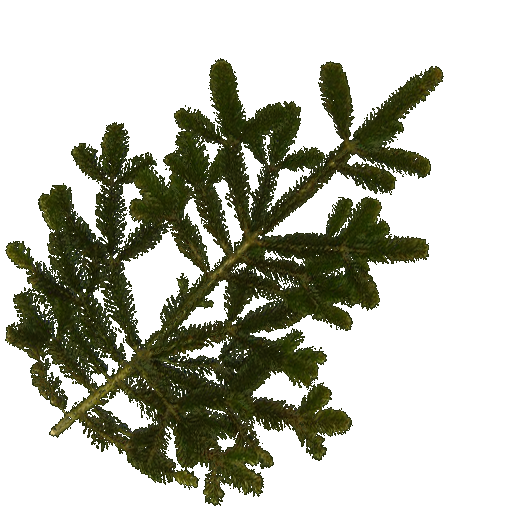
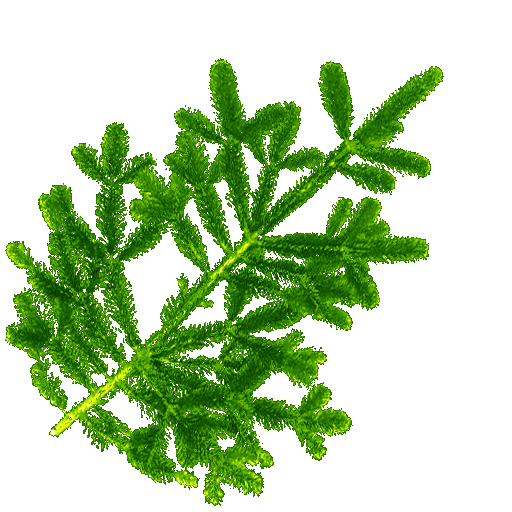
nexus, trees

diff --git a/app/scripts/threearena/game.js b/app/scripts/threearena/game.js
@@ -6,6 +6,7 @@ define('threearena/game',
 
     'threearena/utils',
     'threearena/hud',
+    'threearena/elements/nexus',
     'threearena/elements/tower',
     'threearena/elements/lifebar',
     'threearena/elements/interactiveobject', 
@@ -35,6 +36,7 @@ define('threearena/game',
  
     Utils,
     HUD,
+    Nexus,
     DefenseTower,
     LifeBar,
     InteractiveObject,
@@ -112,6 +114,11 @@ define('threearena/game',
         MicroEvent.mixin(ThreeArenaGlobalEvents);
 
         window._ta_events = new ThreeArenaGlobalEvents();
+
+        this.stats = new Stats();
+        this.stats.domElement.style.position = 'absolute';
+        this.stats.domElement.style.top = '0px';
+        this.settings.container.appendChild( this.stats.domElement );
 
         //////////
 
@@ -193,9 +200,9 @@ define('threearena/game',
         this.directionalLight = new THREE.SpotLight( 0xffffff );
         // this.directionalLight.ambient = 0xffffff;
         // this.directionalLight.diffuse = 0xffffff;
-        // this.directionalLight.specular = 0xffffff;
+        this.directionalLight.specular = 0xaaaa22;
         this.directionalLight.position.set( -200, 400, -200 );
-        this.directionalLight.intensity = 1;
+        this.directionalLight.intensity = .9;
         this.directionalLight.castShadow = true;
         this.directionalLight.shadowMapWidth = 1024;
         this.directionalLight.shadowMapHeight = 1024;
@@ -257,15 +264,14 @@ define('threearena/game',
         this.cameraControls.domElement = this.renderer.domElement;
     };
 
-    Game.prototype._initObjectives = function(done) {
-        var mesh;
+    Game.prototype._initNexus = function(done) {
 
-        this.objectives[0] = new THREE.Mesh( new THREE.CubeGeometry(10, 20, 10, 1, 1, 1) , new THREE.MeshBasicMaterial({ color:'#e33' }));
-        this.objectives[0].position.set(-179.6, 13.8, 180.7);
+        this.objectives[0] = new Nexus({ color: '#e33' });
+        this.objectives[0].position.set(-71.2, 19, 69);
         this.scene.add(this.objectives[0]);
 
-        this.objectives[1] = new THREE.Mesh( new THREE.CubeGeometry(10, 20, 10, 1, 1, 1) , new THREE.MeshBasicMaterial({ color:'#33e' }));
-        this.objectives[1].position.set(169.5, 17.8, -130.4);
+        this.objectives[1] = new Nexus({ color: '#3e3' });
+        this.objectives[1].position.set(89.2, 21, -62.5);
         this.scene.add(this.objectives[1]);
 
         done();
@@ -372,7 +378,8 @@ define('threearena/game',
                 object.material.materials[1].transparent = true;
 
                 object.material.materials[0].ambient.set(.5, 1, .5);
-                object.material.materials[0].specular.set(.1, .1, .1);
+                object.material.materials[0].diffuse.set(.5, 1, .5);
+                object.material.materials[0].specular.set(.1, 1, .1);
 
                 self._treesRefs.push(object);
                 callback();
@@ -453,30 +460,47 @@ define('threearena/game',
 
         var self = this;
 
+        this._treesGroup = this._treesGroup || new THREE.Object3D();
+        this._treesGroup.castShadow = true;    
+
         // clone a tree
         var refTreeIndex = type || Math.round( Math.random() * (this._treesRefs.length - 1) );
         var refTree = self._treesRefs[ refTreeIndex ];
        
-        var tree = new THREE.Mesh( refTree.geometry, refTree.material /* self._tree_shader */ );
-        tree.castShadow = true;    
-        tree.position = position;
-        tree.scale = new THREE.Vector3(4, 4, 4);
-        tree.rotation.y = Math.random() * 90 * ( Math.PI / 180 );
+        // this._tmp_tree = this._tmp_tree || new THREE.Mesh();
+        // this._tmp_tree.geometry = refTree.geometry;
+        // this._tmp_tree.material = refTree.material;
+
+        this._tmp_tree = new THREE.Mesh( refTree.geometry, refTree.material );
+        //this._tmp_tree.material.materials.push(cartoon);
+        this._tmp_tree.castShadow = true;
+
+        // this._tmp_tree.material.materials[1].ambient.set(0, 0, 0);
+        this._tmp_tree.material.materials[1].specular.set(0xdd5500);
+        // this._tmp_tree.material.materials[1].bumpMap = THREE.ImageUtils.loadTexture( "/gamedata/pine-a.png" );
+        // this._tmp_tree.material.materials[1].bumpScale = 19;
+
+        this._tmp_tree.matrixAutoUpdate = false;
+        this._tmp_tree.position = position;
+        this._tmp_tree.position.y += 4;
+        this._tmp_tree.scale = new THREE.Vector3(4, 3, 4);
+        // this._tmp_tree.rotation.y = Math.random() * 90 * ( Math.PI / 180 );
 
         if (refTreeIndex == 0) {
-            tree.rotation.x = - 90 * ( Math.PI / 180 );
+            this._tmp_tree.rotation.x = - 90 * ( Math.PI / 180 );
         }
         if (refTreeIndex == 1) {
-            //tree.rotation.x = 10 * ( Math.PI / 180 );
-            //tree.rotation.y = 10 * ( Math.PI / 180 );
-            tree.rotation.z = 70 * ( Math.PI / 180 );
+            //this._tmp_tree.rotation.x = 10 * ( Math.PI / 180 );
+            //this._tmp_tree.rotation.y = 10 * ( Math.PI / 180 );
         }
 
-        tree.matrixAutoUpdate = false;
-        tree.updateMatrix();
+        this._tmp_tree.rotation.z = Math.random() * 180 * ( Math.PI / 180 );
 
-        this._treesGroup = this._treesGroup || new THREE.Object3D();
-        this._treesGroup.add( tree );
+
+        this._tmp_tree.updateMatrix();
+
+        // THREE.GeometryUtils.merge(this._treesGroup.geometry, this._tmp_tree);
+        this._treesGroup.add( this._tmp_tree );
     };
 
     /**
@@ -509,7 +533,7 @@ define('threearena/game',
 
         async.series([
             _.bind( this._initGround, this),
-            _.bind( this._initObjectives, this),
+            _.bind( this._initNexus, this),
             _.bind( this._initSky, this),
             _.bind( this._initTrees,  this),
             _.bind( this._initTowers, this),
@@ -525,6 +549,7 @@ define('threearena/game',
                             }
                         }
                     });
+
                     self.scene.add(self._treesGroup);
                     callback();
                 });
@@ -691,7 +716,9 @@ define('threearena/game',
 
                     console.log('find a path between %o and %o', self.pcs[0].position, i_pos);
 
-                    // run the magic
+                    // character.objective = { position: i_pos };
+                    // character.behaviour = character.behaviour.warp('plotCourseToObjective');
+
                     PathFinding.findPath(
                         this.pcs[0].position.x, this.pcs[0].position.y, this.pcs[0].position.z,
                         i_pos.x, i_pos.y, i_pos.z,
@@ -785,14 +812,8 @@ define('threearena/game',
         this._boundAnimate = _.bind( this.animate, this );
         this.animate();
 
-        this._boundTimer = _.bind( this.timer, this );
-        this.timer(this._boundTimer);
-    };
-
-    Game.prototype.timer = function() {
-
-        this.trigger('everysec', this);
-        setTimeout(this._boundTimer, 500);
+        // timers
+        this._behaviours_delta = this.clock.getDelta();
     };
 
     /**
@@ -813,10 +834,12 @@ define('threearena/game',
 
         var self = this;
 
-        // stats.update()
-        TWEEN.update();
-
         this.delta = this.clock.getDelta();
+
+        if (this.clock.oldTime - this._behaviours_delta > 200) {
+            this._behaviours_delta = this.clock.oldTime;
+            this.trigger('update:behaviours', this);
+        }
 
         window._ta_events.trigger('update', this);
 
@@ -837,6 +860,9 @@ define('threearena/game',
         _.each(this.pcs, function(character){
             character.update(self);
         });
+
+        this.stats.update()
+        TWEEN.update();
 
         this.composer.render();
     };

diff --git a/app/scripts/threearena/examples/demo.js b/app/scripts/threearena/examples/demo.js
@@ -10,10 +10,11 @@ define('threearena/examples/demo',
       'threearena/particles/flies',
 
       'machinejs',
-      'threearena/behaviours/minion'
+      'threearena/behaviours/minion',
+      'threearena/behaviours/controlled'
     ],
 
-    function(_, THREE, Game, Utils, Ogro, Ratamahatta, Dog, InterativeObject, SpawningPool, BiteSpell, FireAuraSpell, FireBulletSpell, Flies,    Machine, MinionBehaviour) {
+    function(_, THREE, Game, Utils, Ogro, Ratamahatta, Dog, InterativeObject, SpawningPool, BiteSpell, FireAuraSpell, FireBulletSpell, Flies,    Machine, MinionBehaviour, ControlledBehaviour) {
     'use strict';
 
 	var Demo = function(settings) {
@@ -68,23 +69,29 @@ define('threearena/examples/demo',
         // A state Machine 
         var machine = new Machine();        
 
-
         // Some flies
         var flies = new Flies(10);
         flies.position.set(-70, 20, 80);
         this.scene.add(flies);
         this.bind('update', _.bind(flies.update, flies));
 
-
         // Another character
         var ogro = new Ogro({
             onLoad: function(){
-                this.state.team = 0;
-                self.addCharacter( this );
+                var character = this;
+
+                character.state.team = 0;
+
+                // character.behaviour = machine.generateTree(ControlledBehaviour, character, character.states);
+                // self.bind('update:behaviours', function () {
+                //     character.behaviour = character.behaviour.tick();
+                // });
+
+                self.addCharacter( character );
 
                 // learn some spells
-                ogro.learnSpell( FireAuraSpell );
-                ogro.learnSpell( FireBulletSpell );
+                character.learnSpell( FireAuraSpell );
+                character.learnSpell( FireBulletSpell );
             }
         });
 
@@ -102,11 +109,11 @@ define('threearena/examples/demo',
 
             character.objective = self.objectives[0];
             character.behaviour = machine.generateTree(MinionBehaviour, character, character.states);
-            self.bind('everysec', function () {
+            self.bind('update:behaviours', function () {
                 character.behaviour = character.behaviour.tick();
             });
         });
-        pool.position.set( 170.9, 17.8, -132.3);
+        pool.position.set( self.objectives[1].position.x, self.objectives[1].position.y, self.objectives[1].position.z );
         this.addSpawningPool(pool);
         pool.start();
     };
@@ -117,7 +124,7 @@ define('threearena/examples/demo',
 
         var self = this;
 
-        var ambient = 0xffffff, diffuse = 0xffffff, specular = 0xffffff, shininess = 10;
+        var ambient = 0xffffff, diffuse = 0xffffff, specular = 0xdd5500, shininess = 10;
 
         var uniforms;
         var shader = THREE.ShaderLib[ "normalmap" ];

diff --git a/app/scripts/threearena/entity.js b/app/scripts/threearena/entity.js
@@ -88,7 +88,7 @@ function(_, MicroEvent, THREE, ko, log, Utils, LifeBar, PathFinding) {
                 if (! self._nearestEnnemy) {
 
                     if (self._isFighting) {
-                        // xas fighting, must replan
+                        // was fighting, must replan
                         self._currentRoute = null;
                         self._isMoving = false;
                     }
@@ -125,7 +125,7 @@ function(_, MicroEvent, THREE, ko, log, Utils, LifeBar, PathFinding) {
             },
 
             followCourseToObjective: function () {
-                if (self._isMoving) return;
+                if (self._isMoving || ! self._currentRoute) return;
                 if (self._currentTween) {
                     self._currentTween.stop();
                     self._currentTween.onComplete();
@@ -137,7 +137,7 @@ function(_, MicroEvent, THREE, ko, log, Utils, LifeBar, PathFinding) {
                     },
                     onComplete: function(){
                         self._isMoving = false;
-                        self._currentRoute = null;
+                        //self._currentRoute = null;
                     }
                 });
             },
@@ -148,6 +148,14 @@ function(_, MicroEvent, THREE, ko, log, Utils, LifeBar, PathFinding) {
                         && ! this._isFighting 
                         && ! self.states.canFightObjective()
                         && ! self.states.canFightNearbyEnnemy();
+            },
+
+            moveAttackToObjective: function () {
+                self.states.followCourseToObjective();
+            },
+
+            canMoveAttackToObjective: function () {
+                return (self.objective && self.objective.position.distanceTo(self.position) > 2);
             },
 
         };

diff --git a/app/scripts/threearena/character/monsterdog.js b/app/scripts/threearena/character/monsterdog.js
@@ -56,8 +56,10 @@ define('threearena/character/monsterdog',
 				t += delta;
 			};
 
-			self.add(self.character);
-			options.onLoad && options.onLoad.apply(self);
+			setTimeout(function(){
+				self.add(self.character);
+				options.onLoad && options.onLoad.apply(self);
+			}, 100);
 		} );
     };
 

diff --git a/app/scripts/threearena/log.js b/app/scripts/threearena/log.js
@@ -6,7 +6,7 @@ define('threearena/log',
     	var args = Array.prototype.slice.apply(arguments);
     	var type = String(args.shift()).toUpperCase();
 
-    	console.log.apply( console, args );
+    	//console.log.apply( console, args );
     };
 
     Log.SYS_DEBUG = 'SYS_DEBUG';

diff --git a/app/index.html b/app/index.html
@@ -19,6 +19,7 @@
 
         <!-- build:js scripts/vendor/modernizr.js -->
         <script src="bower_components/modernizr/modernizr.js"></script>
+        <script src="scripts/libs/stats.min.js"></script>
         <!-- endbuild -->
 
         <!-- SHADER: Glowing effect -->

diff --git a/app/scripts/threearena/views/entityview.js b/app/scripts/threearena/views/entityview.js
@@ -43,7 +43,7 @@ define('threearena/views/entityview',
             }
         };
 
-        entity.bind('everysec', _.bind( this.update, this ));
+        entity.bind('changed', _.bind( this.update, this ));
     };
 
     return EntityViewModel;
